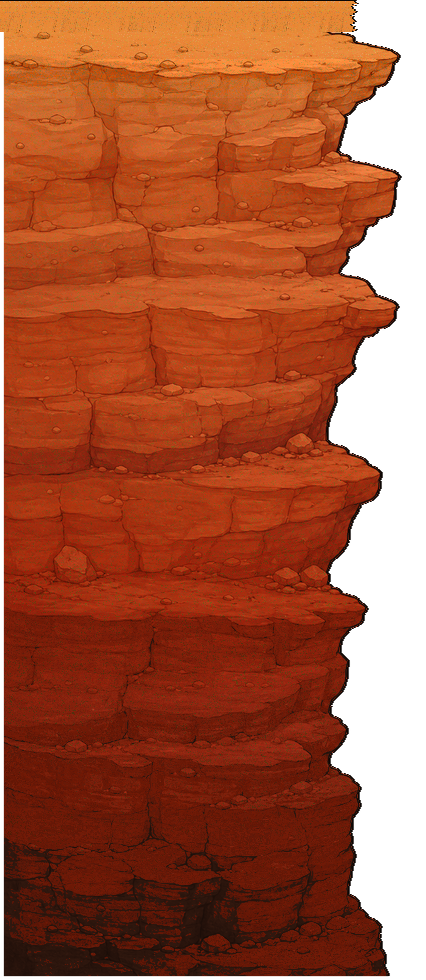
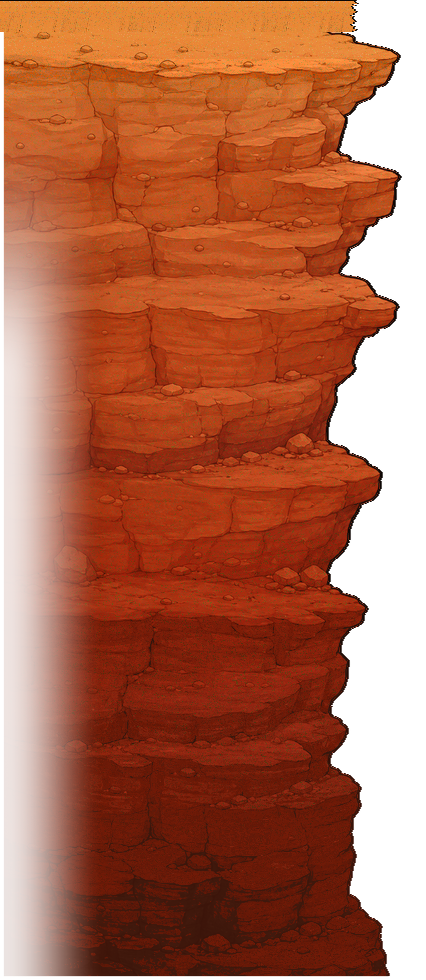
Fade lower canyon ridge into TrailFloor dirt.
Soften the bank-facing ridge edge below the desert crust with alpha and dirt-tone blends so lower earth no longer hard-seams against the cliff art.

diff --git a/README.md b/README.md
@@ -2,7 +2,7 @@
 
 Child-friendly 2D western cowboy platformer (Godot **4.4**). Aimed at kids ~6: forgiving jumps, no lives/game-over, nonviolent lasso. **German is the default language**; English is fully supported. Optional spoken instructions use local OS TTS (Narrator).
 
-**Content version:** `1.3.55` (see `content_version.txt`). Launchers reimport when this stamp changes.
+**Content version:** `1.3.56` (see `content_version.txt`). Launchers reimport when this stamp changes.
 
 This README is the **binding source of truth** for gameplay, level design, art, i18n, and audio. Agents and contributors must follow it (see [Agent / contributor rules](#agent--contributor-rules)).
 
@@ -86,7 +86,7 @@ Agents **must** honor these when editing levels or trail systems:
 ### Canyon art
 
 - Hand-painted **rims sit outside** desert floor banks — never cover the brown desert surface span with rim sprites.
-- Ridges are **full-height handcrafted cliff art** (ink outlines, painted rock, jagged lip — same illustrative western style as cactus/mesas): from the desert top down the canyon face to the bottom of the trail dirt / view — not a short rim lip and not flat TrailFloor dirt-cut ends. Ridge tops use the same warm sand crust as the trail and **align with the desert top** (slightly under the trail tiles in Y). Rims draw **in front of** desert floor tiles so lips sit on the canyon edge. Desert surface/dirt tiles **inset at canyon lips** so sand never overhangs past the ridge into the mouth.
+- Ridges are **full-height handcrafted cliff art** (ink outlines, painted rock, jagged lip — same illustrative western style as cactus/mesas): from the desert top down the canyon face to the bottom of the trail dirt / view — not a short rim lip and not flat TrailFloor dirt-cut ends. Ridge tops use the same warm sand crust as the trail and **align with the desert top** (slightly under the trail tiles in Y). Rims draw **in front of** desert floor tiles so lips sit on the canyon edge. Desert surface/dirt tiles **inset at canyon lips** so sand never overhangs past the ridge into the mouth. Below the crust, the bank-facing ridge edge **soft-fades into TrailFloor dirt** (no hard lower earth/ridge color break).
 - Between the ridges: **open sky only** — punch horizon hills (Mesa backdrop) and FloorAbyss out of the gap column so trail SkyArt / Background shows through. Do **not** paint a stretched sky-fill column, depth shelves, floor wash, inner-wall fill, or mountain scenery inside the mouth; **never** a featureless black / flat near-black void or black outline framing the lips.
 - Horizon hills / Mesa backdrop must **not** silhouette over or through canyon openings (sky continues through the gap).
 - Widening a gap must not stretch handmade rim textures (width may shrink to fit; cliff height stays full).
